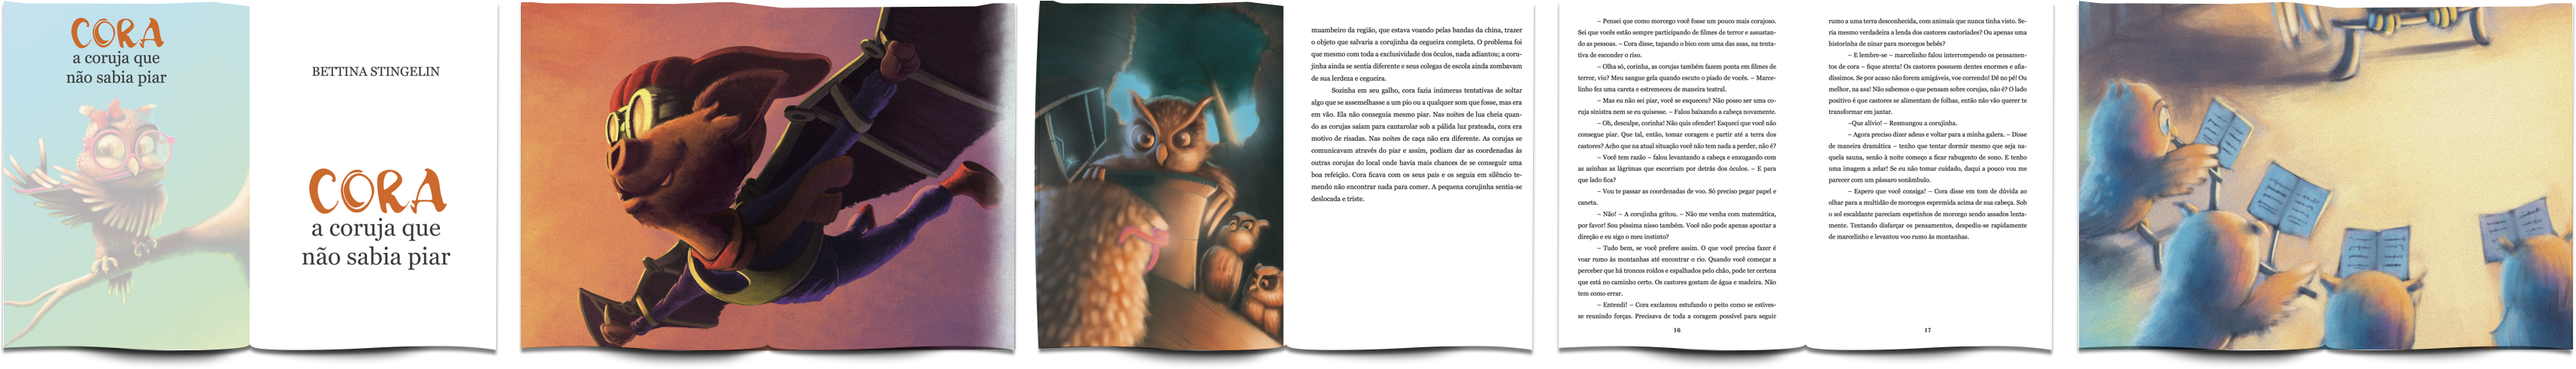
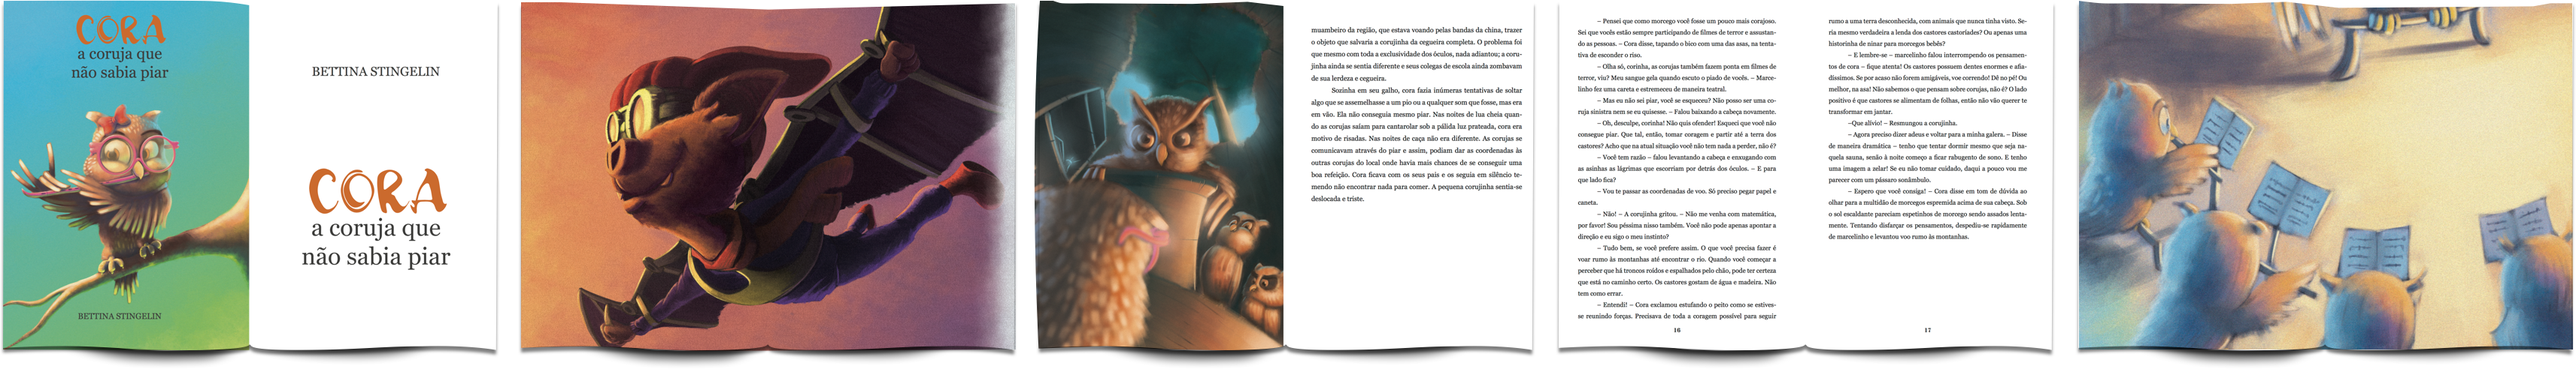
fix image and book infos

Changed region(s): [[0.0, 0.0, 0.0937, 0.9756], [0.2186, 0.0, 0.3123, 0.0305], [0.3435, 0.0, 0.3748, 0.0305]]

diff --git a/infantil/cora-a-coruja-que-nao-sabia-piar.html b/infantil/cora-a-coruja-que-nao-sabia-piar.html
@@ -12,7 +12,6 @@ book: Cora a coruja que não sabia piar
   <div class="book-infos bet-grid">
     <div class="book-infos-content bet-2-col">
       <img src="/img/books/cover_cora_a_coruja_que_nao_sabia_piar.png" />
-        <div class="magic-square"></div>
     </div>
     <div class="book-infos-checkout bet-2-col">
       <div class="book-infos-checkout-box">
@@ -53,13 +52,11 @@ book: Cora a coruja que não sabia piar
       <br>
       Ano da edição:	2017
       <br>
-      Editora:
+      Editora: Siberroam Ltda. e Nova Letra Editora
       <br>
-      I.S.B.N.
+      I.S.B.N: 978-85-460-0146-0
       <br>
-      Páginas:
-      <br>
-      Acabamento:	Brochura
+      Páginas: 40
     </div>
     <div class="flex-item">
       <h4>Sinopse</h4>

diff --git a/_includes/head.html b/_includes/head.html
@@ -7,6 +7,7 @@
   <title>{{ site.title }}</title>
   <meta name="description" content="">
   <link href="/css/main.css" rel="stylesheet">
+  <link rel="icon" href="/img/favico.png" type="image/png">
   <link rel="canonical" href="http://localhost:4000/">
   <link rel="alternate" type="application/rss+xml" title="Bettina Stingelin Writer" href="/feed.xml">
 </head>
